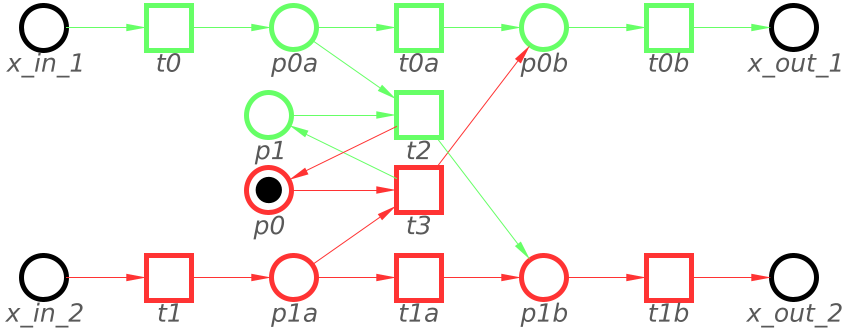
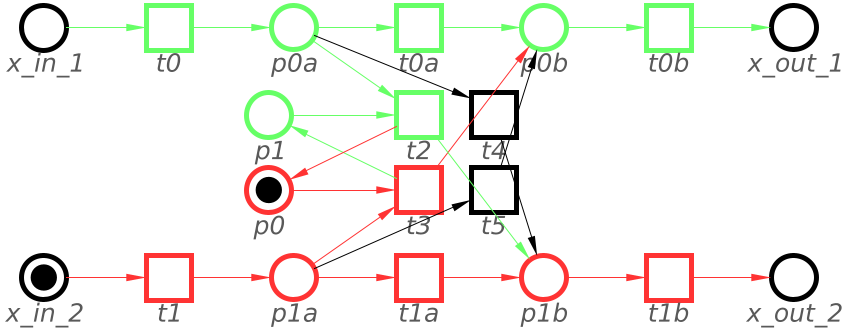
added join functionality and example

diff --git a/src/graphex.h b/src/graphex.h
@@ -231,7 +231,7 @@ namespace graphex{
 				
 				void print_pl();
 				
-				int join(std::vector<int> pg_indexes_f, std::vector<pattern> patterns);
+				int join(int tr_index_f, std::vector<pattern> patterns);
 				
 				//methods to read PN as vars, or spur a transition
 				int attach(std::vector<pattern> lower, std::vector<pattern> upper, GS_vars);
@@ -313,6 +313,8 @@ namespace graphex{
 			return;
 		}
 		
+		//IMPORTANT INFORMATION! The outer index returned here is a global index! Therefore, per tr pl index is different
+		//Improvements to make: return size_t as global index, only return inner index - less confusing!
 		template<class T_pl_frame, class T_tr_index_frame>
 		int Graph<T_pl_frame, T_tr_index_frame>::find(std::string search_term, std::vector<int> whitelist, T_tr_index_frame& index_i_f){
 			using namespace std;
@@ -635,13 +637,16 @@ namespace graphex{
 		}
 		
 		template <class T_pl_frame, class T_tr_index_frame>
-		int Graph<T_pl_frame, T_tr_index_frame>::join(std::vector<int> pg_indexes_f, std::vector<pattern> patterns){
+		int Graph<T_pl_frame, T_tr_index_frame>::join(int tr_index_f, std::vector<pattern> patterns){
 			using namespace std;
 			
 			vector<loader_pl_concept<T_tr_index_frame>*> f_pl_reg;
 			loader_pl_concept<T_tr_index_frame>* temp_loader_pl;
 			
 			string prefix_shared = "x_";
+			
+			vector<int> pg_indexes_f;
+			find_pg(tr_index_f, pg_indexes_f);
 			
 			for(auto&i : pg_indexes_f){
 				auto pl_temp_f = pl_reg[i];
@@ -651,6 +656,7 @@ namespace graphex{
 					int s_start = label_it.find(prefix_shared,0);
 					int s_end = prefix_shared.length();
 					if(s_start==0){
+						D(cout<<"Join: special found: "<<label_it<<endl;)
 						//shared prefix found...
 						s_start = s_end;
 						s_end = label_it.find("_", s_start);
@@ -658,23 +664,71 @@ namespace graphex{
 						bool pattern_present = 0;
 						for(auto&pattern_it : patterns){
 							if(pattern_it.name == label_set_name){
+
 								temp_loader_pl = new loader_pl_concept<T_tr_index_frame>;
+								
+								int outer_index_l;
+								for(size_t group_count = 0; group_count < tr_reg[tr_index_f]->place_reg.size(); group_count++){
+									if(tr_reg[tr_index_f]->place_reg[group_count] == pl_temp_f){
+										D(std::cout<<"Join match! "<<pl_temp_f<<endl;)
+										outer_index_l = group_count;
+									}
+								}
+								
+								pl_temp_f->body->labels[counter] = "!!!JOINED!!!";
+								
+								temp_loader_pl->index_l.group_index = outer_index_l;
+								temp_loader_pl->index_l.place_index = counter;
+								
 								temp_loader_pl->old_label = label_it;
 								
 								temp_loader_pl->whitelist = pattern_it.whitelist;
 								//replace the label set name with the substitution
 								label_it.replace(s_start,s_end-s_start,pattern_it.sub);
-								temp_loader_pl->new_label = label_it;
 								//add altered name to the current place concept
+								temp_loader_pl->new_label = label_it;
 								//if pattern is present, set flag
 								pattern_present = 1;
 								//set concept label set to new substitution
-								//current_place_p->label_set = pattern_it.sub;
+								temp_loader_pl->label_set = pattern_it.sub;
+								f_pl_reg.push_back(temp_loader_pl);
+								D(cout<<"Join: label set pattern match: "<<temp_loader_pl->new_label<<endl;)
+								
 							}
 						}
 					}
 					
 					counter++;
+				}
+				
+			}
+			
+			T_tr_index_frame search_result = {0,0};
+			for(auto&i : f_pl_reg){
+				D(cout<<"Join: reading concepts... "<< i->new_label<<endl;)
+				int result = find(i->new_label, i->whitelist, i->index_replace_l);
+				i->exists = 0;
+				
+				if(result != 0){
+					tr_reg[tr_index_f]->place_reg.push_back(pl_reg[result]);
+					i->index_replace_l.group_index = tr_reg[tr_index_f]->place_reg.size() - 1;
+					i->exists = 1;
+				}
+				
+				D(cout<<"-old index: "<< i->index_l.group_index<<":"<<i->index_l.place_index<<endl;)
+				D(cout<<"-new index: "<< i->index_replace_l.group_index<<":"<<i->index_replace_l.place_index<<endl;)
+			}
+			
+			for(auto&i : f_pl_reg){
+				if(i->exists == 1){
+					for(auto&k : tr_reg[tr_index_f]->body->data){
+						for(auto&j : k){
+							if(j.group_index==i->index_l.group_index && j.place_index==i->index_l.place_index){
+								j=i->index_replace_l;
+								D(cout<<"Join: found and replaced ... "<< i->new_label<<endl;)
+							}
+						}
+					}
 				}
 			}
 			

diff --git a/ge-examples/join_showcase/join_showcase.cpp b/ge-examples/join_showcase/join_showcase.cpp
@@ -33,36 +33,32 @@ int main(){
 	g.attach({"x_in_1","",tp});
 	g.attach({"x_in_2","",tp});
 	
-	bool testy = 0;
-	
-	g.get(0, testy);
-	
-	cout<<"Here's testy: "<<testy<<endl;
-	
-	g.set(0, 1);
-	
-	g.get(0, testy);
-	
-	cout<<"Here's testy: "<<testy<<endl;
+	g.set(1, 1);
 	
 	#define LOOP_SIZE 10
 	
-	for (int i = 0; i < (LOOP_SIZE - 1); i++){
+	for (int i = 0; i < (LOOP_SIZE - 2); i++){
 		//assemble a single pipeline
 		g.find_pg(ti, tp);
 		ti = g.add("./pn/loop_round_part.lpn", ps{{"in","out",tp}});
 	}
 	
+	g.find_pg(ti, tp);
+	ti = g.add("./pn/loop_round_part.lpn", ps{{"out","outx",{}},{"in","out",tp}});
+	
 	//at this point we have a long pipeline with a start and an end
 	//in order to make a loop, we will need to connect the start and the
 	//end, forming a circle. We can use ::join() to make the connection
 	
-	//get the place groups of the last pipeline module
-	g.find_pg(ti, tp);
 	//get the place groups of the first pipeline module
 	g.find_pg(ti2, tp2);
-	//make a connection from ([last], to [last, first in pattern])
-	g.join(tp, ps{{"out","in",tp2}});
+	//make a connection from ([last, this], to [last -> first in pattern, that])
+	g.join(ti, ps{{"outx","in",tp2}});
+	
+	//now execute and see if counter makes it around the pipeline...
+	for(int i = 0; i< 10000; i++){
+		g.execute(Exe_mode::Random,Exe_mode::Random);
+	}
 	
 	g.print_pl();
 	
